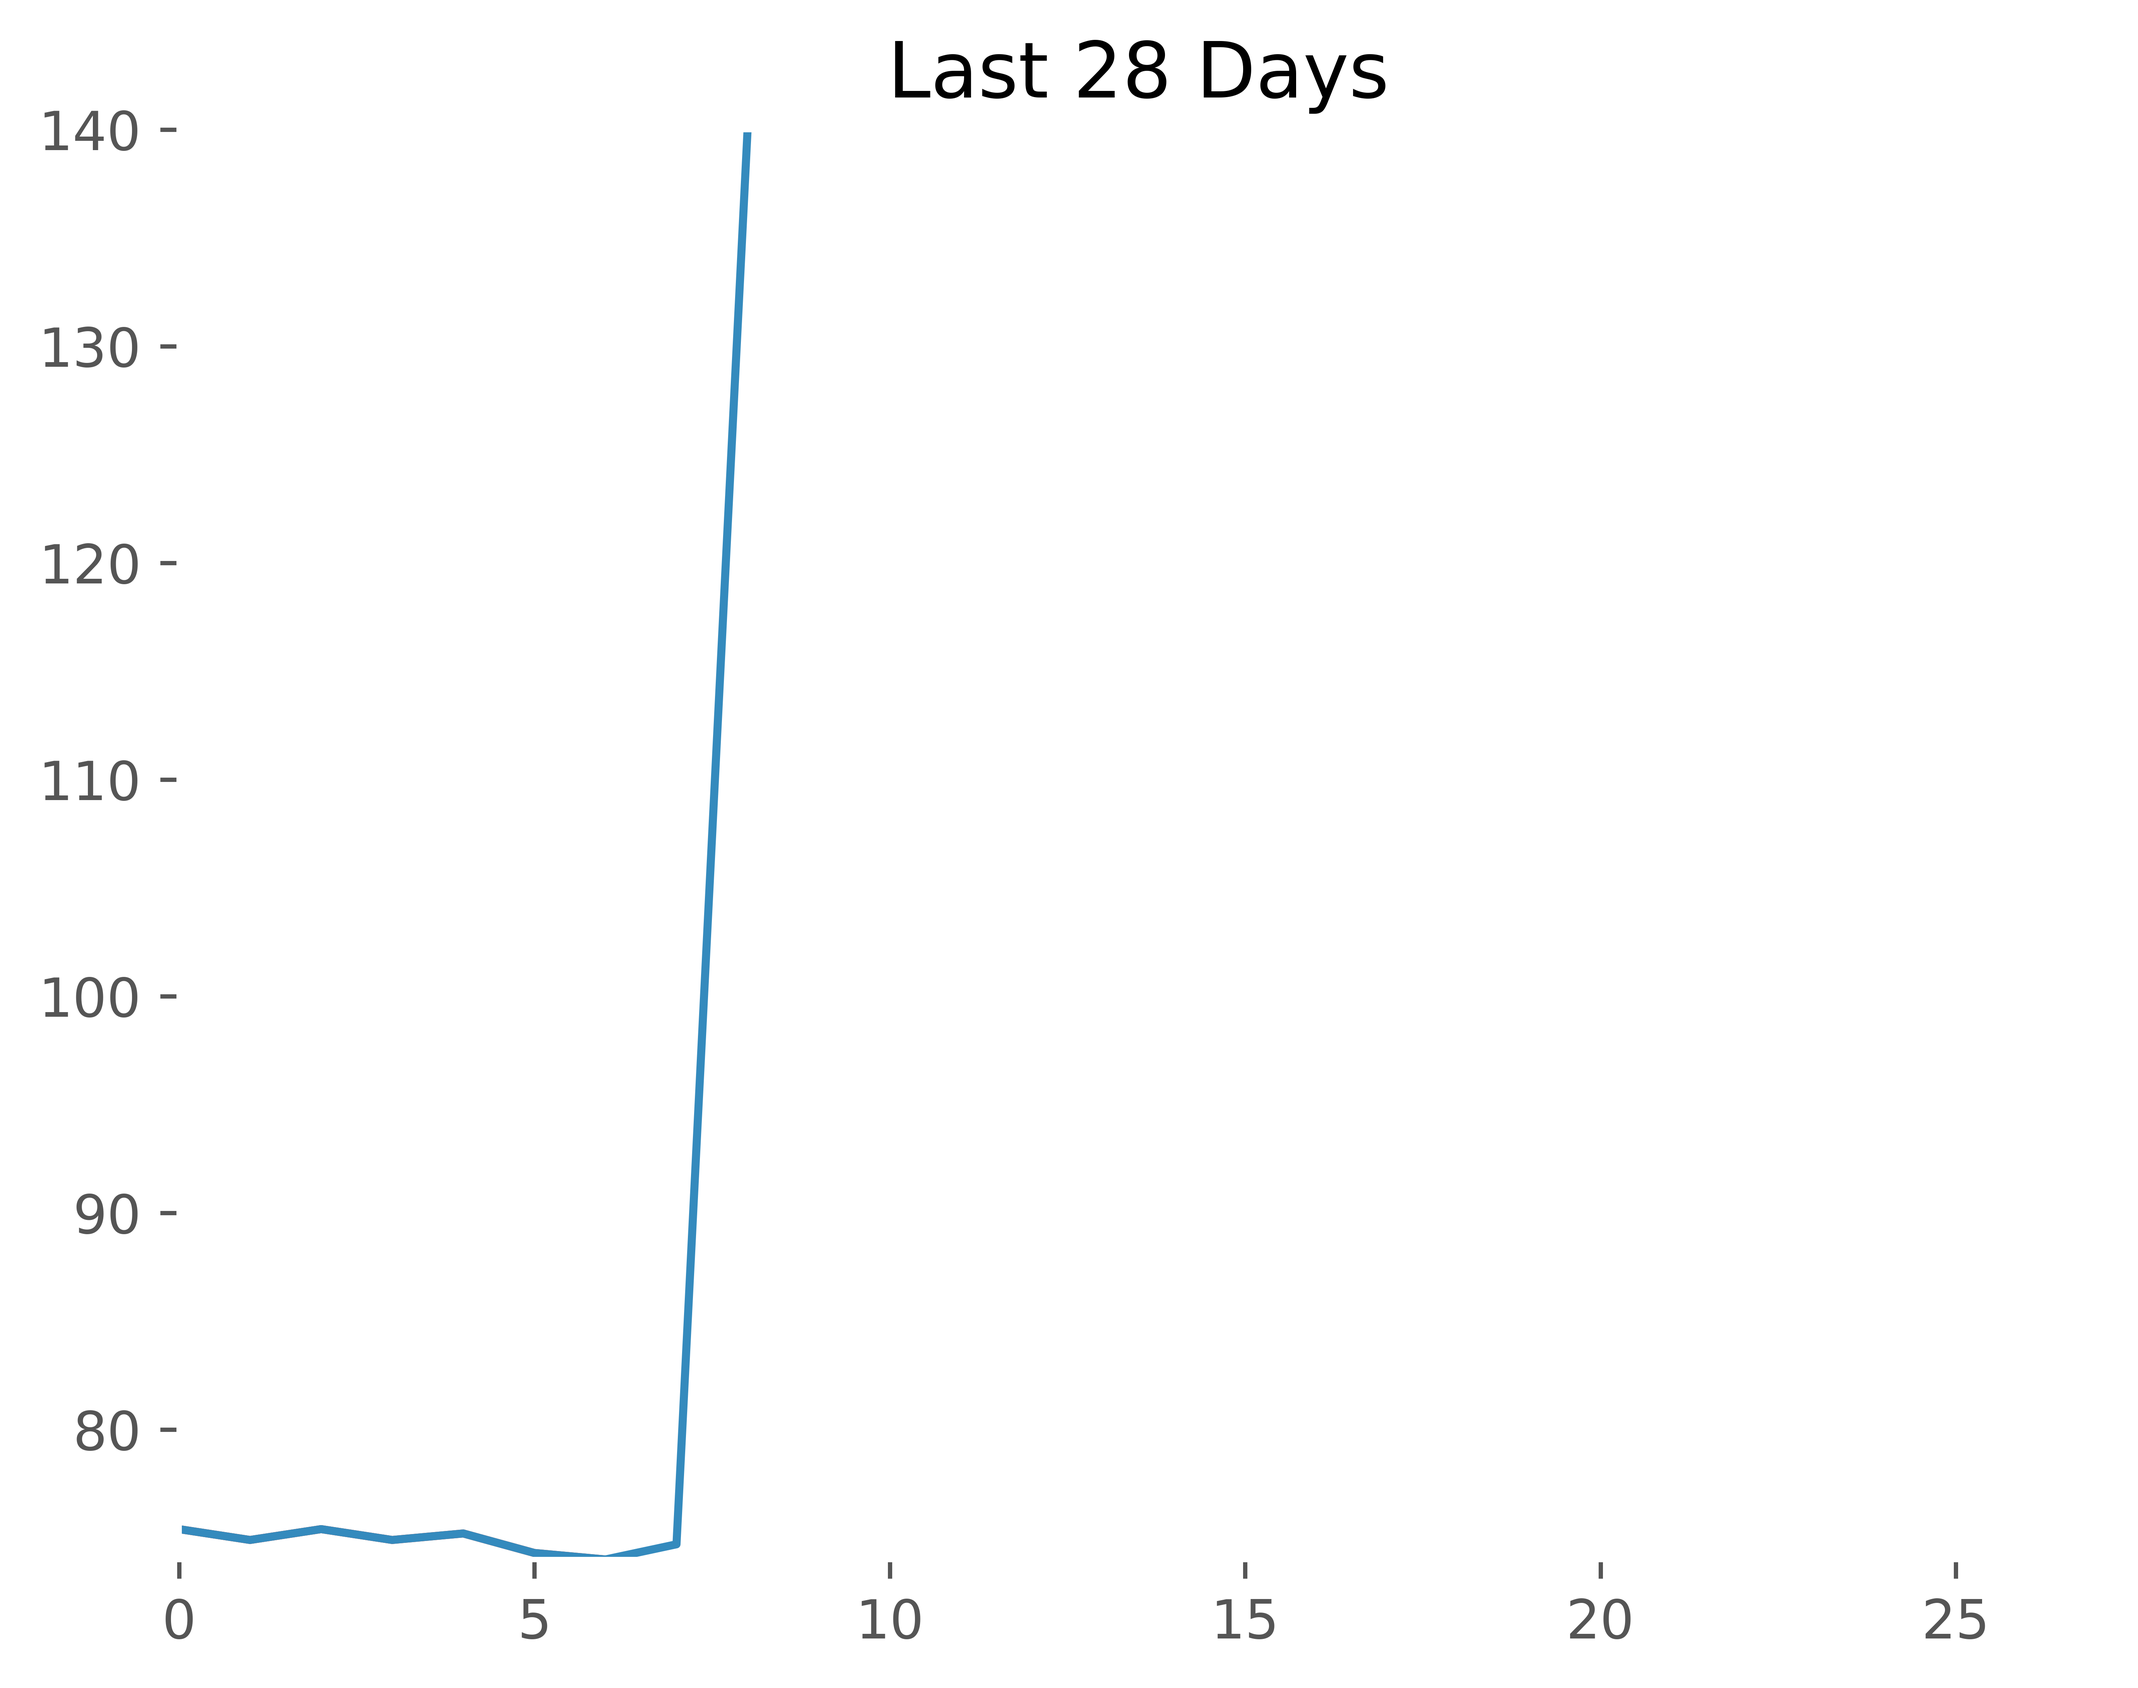
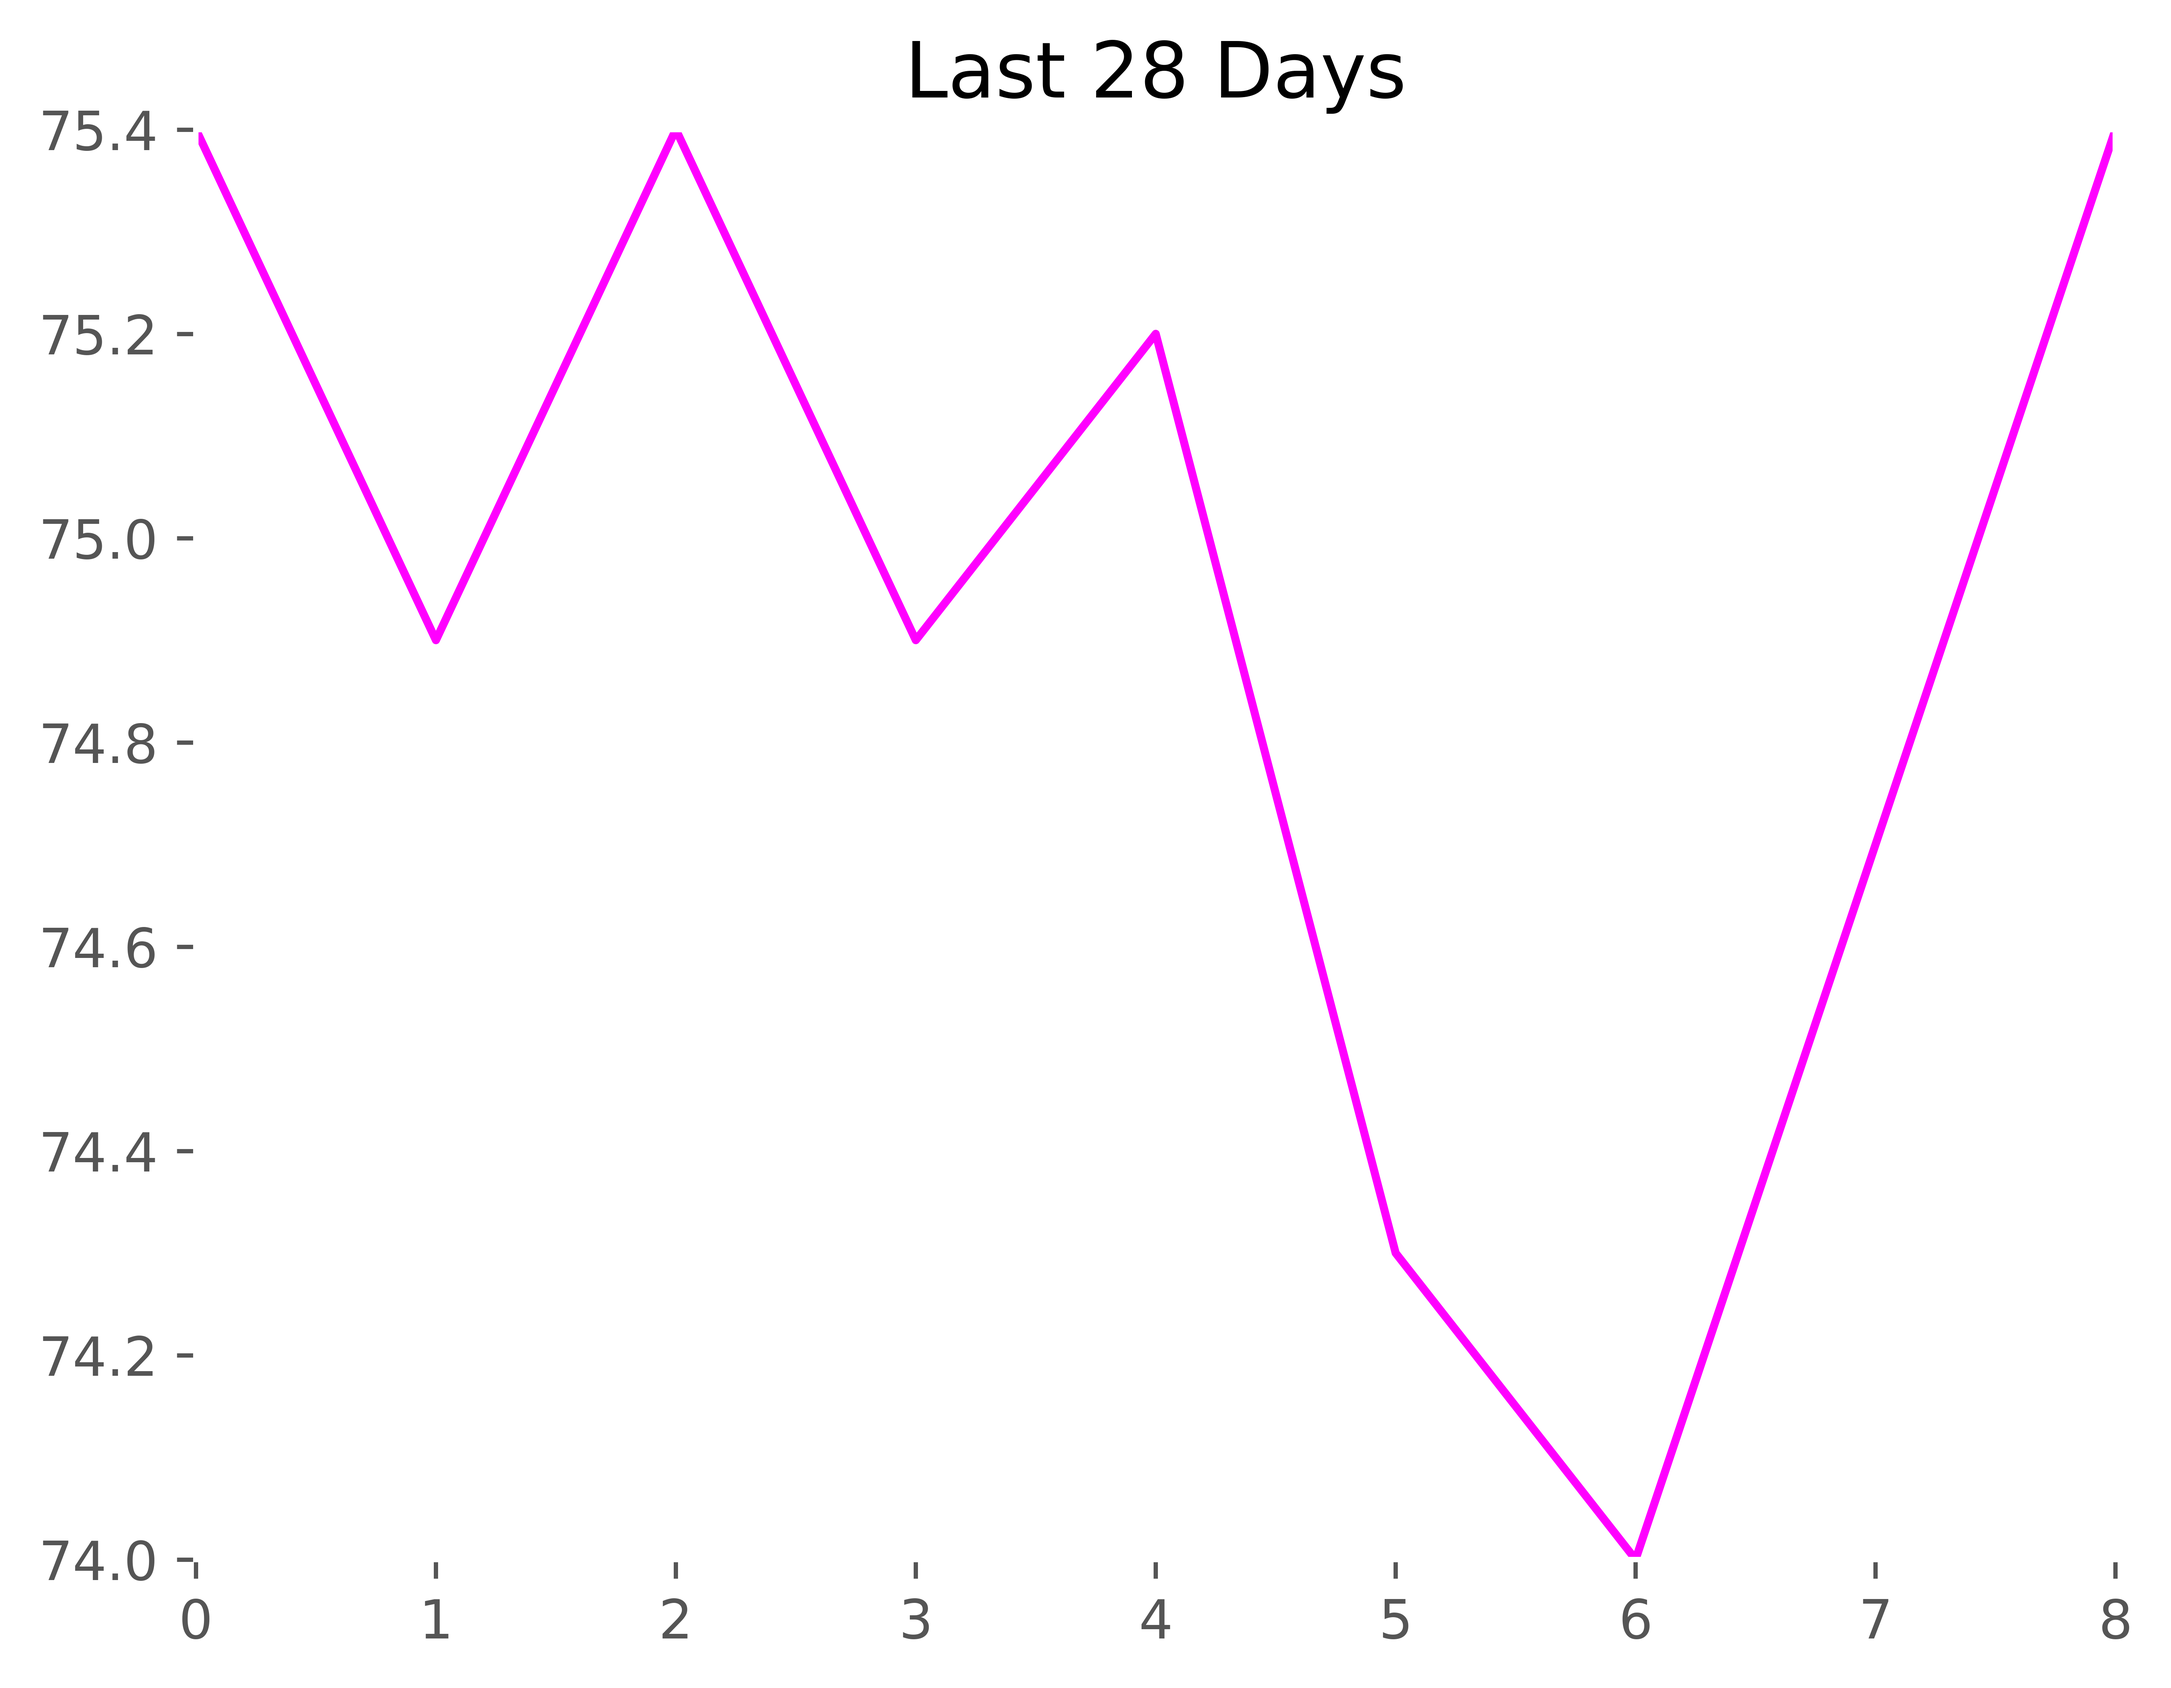
Fixed graphs and split Plot.py into 3 seperate plot scripts

diff --git a/src/GUI.java b/src/GUI.java
@@ -148,7 +148,7 @@ public class GUI {
 						//String pythonScriptPath = "/home/norbert/python/helloPython.py";
 						String[] cmd = new String[2];
 						cmd[0] = "python"; // check version of installed python: python -V
-						cmd[1] = "Plot.py";
+						cmd[1] = "Plot7.py";
 						 
 						// create runtime to execute external command
 						Runtime rt = Runtime.getRuntime();
@@ -159,6 +159,33 @@ public class GUI {
 							e1.printStackTrace();
 						}
 						
+						// set up the command and parameter
+						//String pythonScriptPath = "/home/norbert/python/helloPython.py";
+						cmd[0] = "python"; // check version of installed python: python -V
+						cmd[1] = "Plot28.py";
+						 
+						// create runtime to execute external command
+						//rt = Runtime.getRuntime();
+						try {
+							Process pr = rt.exec(cmd);
+						} catch (IOException e1) {
+							// TODO Auto-generated catch block
+							e1.printStackTrace();
+						}
+						
+						// set up the command and parameter
+						//String pythonScriptPath = "/home/norbert/python/helloPython.py";
+						cmd[0] = "python"; // check version of installed python: python -V
+						cmd[1] = "Plot365.py";
+						 
+						// create runtime to execute external command
+						//Runtime rt = Runtime.getRuntime();
+						try {
+							Process pr = rt.exec(cmd);
+						} catch (IOException e1) {
+							// TODO Auto-generated catch block
+							e1.printStackTrace();
+						}
 						
 						
 						//Put Java to sleep while Python works its magic

diff --git a/Plot28.py b/Plot28.py
@@ -1,0 +1,20 @@
+from matplotlib import pyplot as plt
+from matplotlib import style
+import numpy as np 
+
+import sys,os
+
+style.use('ggplot')
+
+weights = np.loadtxt('WeighIns.csv', unpack = True, delimiter = '\n')
+minX = [0, weights.size-28]
+
+#Plot 28 days
+plt.plot(weights[weights.size-365:weights.size], color='magenta')
+
+plt.title('Last 28 Days')
+plt.xlim([max(minX),weights.size-1])
+plt.ylim([min(weights[weights.size-28:weights.size]), max(weights[weights.size-28:weights.size])])
+plt.draw()
+plt.savefig('Graph28.png', transparent=True, bbox_inches="tight", dpi=1000)
+print("Graph28.png saved")

diff --git a/Plot7.py b/Plot7.py
@@ -1,0 +1,21 @@
+from matplotlib import pyplot as plt
+from matplotlib import style
+import numpy as np 
+
+import sys,os
+
+style.use('ggplot')
+
+weights = np.loadtxt('WeighIns.csv', unpack = True, delimiter = '\n')
+minX = [0, weights.size-7]
+
+#Plot 7 days
+plt.plot(weights[weights.size-365:weights.size], color='limegreen')
+
+plt.title('Last 7 Days')
+plt.xlim([max(minX),weights.size-1])
+plt.ylim([min(weights[weights.size-7:weights.size]), max(weights[weights.size-7:weights.size])])
+
+plt.draw()
+plt.savefig('Graph7.png', transparent=True, bbox_inches="tight", dpi=1000)
+print("Graph7.png saved")

diff --git a/Plot365.py b/Plot365.py
@@ -1,0 +1,20 @@
+from matplotlib import pyplot as plt
+from matplotlib import style
+import numpy as np 
+
+import sys,os
+
+style.use('ggplot')
+
+weights = np.loadtxt('WeighIns.csv', unpack = True, delimiter = '\n')
+minX = [364, weights.size-1]
+
+#Plot 365 days
+plt.plot(weights[weights.size-365:weights.size], color='gold')
+
+plt.title('Last 365 Days')
+plt.xlim([0,min(minX)])
+plt.ylim([min(weights[0:365]), max(weights[0:365])])
+plt.draw()
+plt.savefig('Graph365.png', transparent=True, bbox_inches="tight", dpi=1000)
+print("Graph365.png saved")
